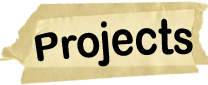
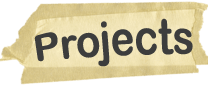
Updated Projects Label
New png to match aesthetic of portfolio.
Added adjustments for placement of label in different media queries

Changed region(s): [[0.1442, 0.2118, 0.9519, 0.7765], [0.4615, 0.2353, 0.5192, 0.3294]]

diff --git a/mainCSS.css b/mainCSS.css
@@ -46,6 +46,7 @@
 	
 }
 
+/*used aspect-ratio sizing to adjust width and height for different media queries*/
 .pages {
 	/*original 344w x 84h	*/
 	background-image: url(Resources/masking-tape-1v2.png);
@@ -65,7 +66,7 @@
 	z-index: 3;
 	position: absolute;
 	right: 8%;
-	top: 29.5%;	
+	top: 29%;	
 }
 
 
@@ -93,7 +94,7 @@
 }
 */
 
-/*320px and up*/
+
 @media only screen and (max-width: 320px) {
 	.under-dev {
 		display: block;
@@ -102,6 +103,8 @@
 		display: none;
 	}
 }
+
+/*320px and up*/
 @media only screen and (min-width: 320px) {
 	.background {
 		width: 300px;
@@ -112,8 +115,13 @@
 		height: 309px;
 	}
 	.pages {
-		width: 42px;
+		width: 40px;
 		height: 10px;
+	}	
+	.projects{
+		width: 36px;
+		height: 15px;
+		top: 29.5%;
 	}		
 }
 
@@ -131,7 +139,11 @@
 	.pages {
 		width: 79px;
 		height: 19px;
-	}	
+	}
+	.projects{
+		width: 74px;
+		height: 30px;
+	}		
 }
 
 /* Medium devices (landscape tablets, 768px and up) */
@@ -147,6 +159,10 @@
 	.pages {
 		width: 100px;
 		height: 24px;
+	}
+	.projects{
+		width: 95px;
+		height: 39px;
 	}	
 }
 
@@ -164,6 +180,10 @@
 		width: 130px;
 		height: 32px;
 	}
+	.projects{
+		width: 125px;
+		height: 51px;
+	}	
 }
 
 /* Extra large devices (large laptops and desktops, 1200px and up) */

diff --git a/index.html b/index.html
@@ -13,6 +13,7 @@
 <body>
 	<div id='container'>
 		<div class='background'>
+<!--elements inside background will be locked to its dimension-->
 			<div class="pages"></div>
 			<div class="projects"></div>
 		</div>
